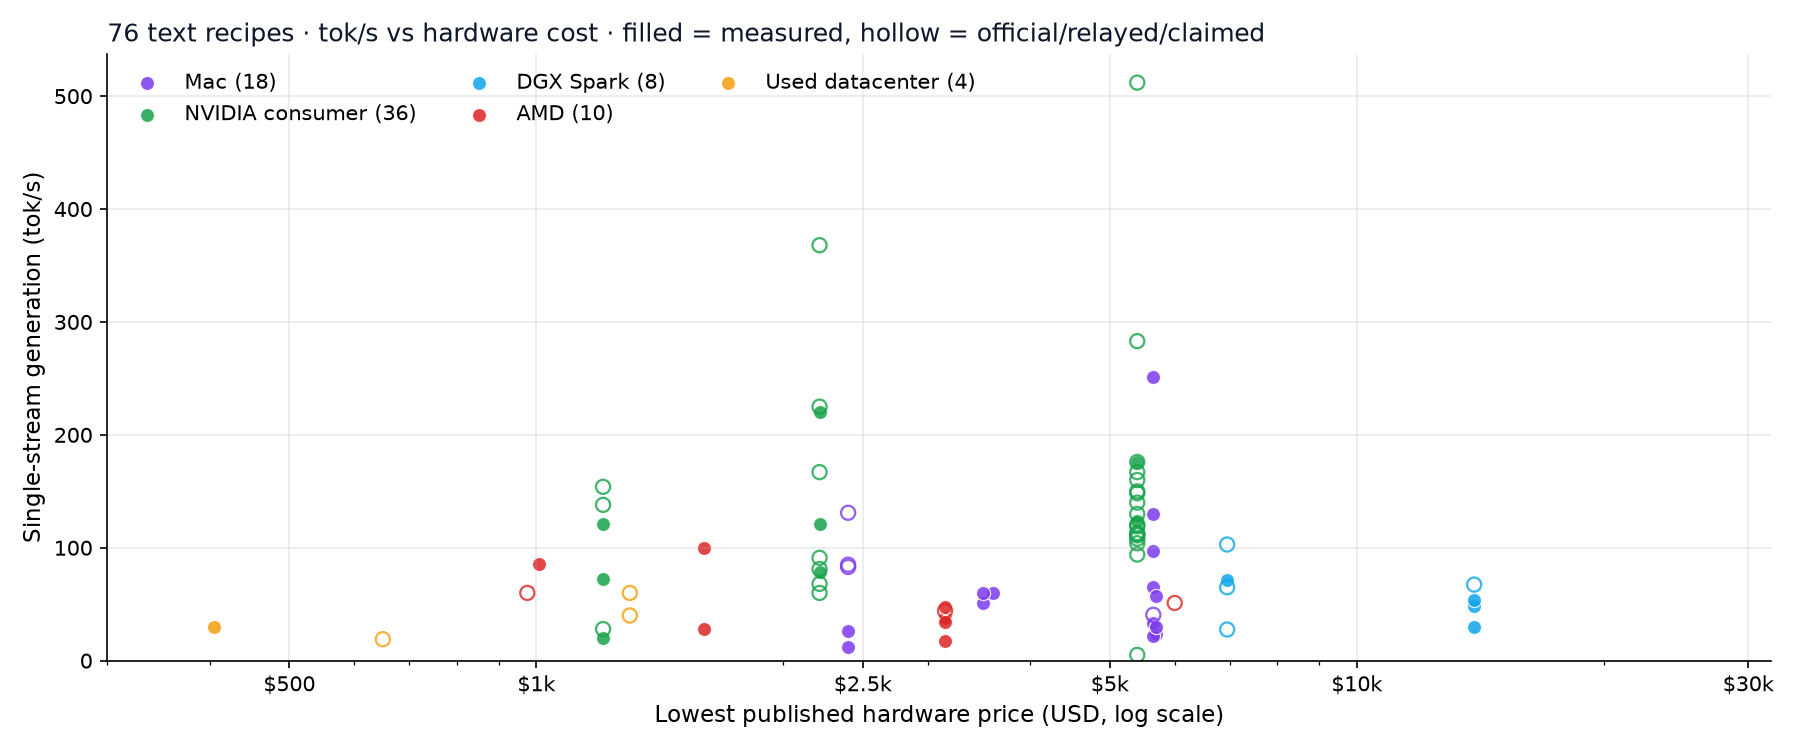
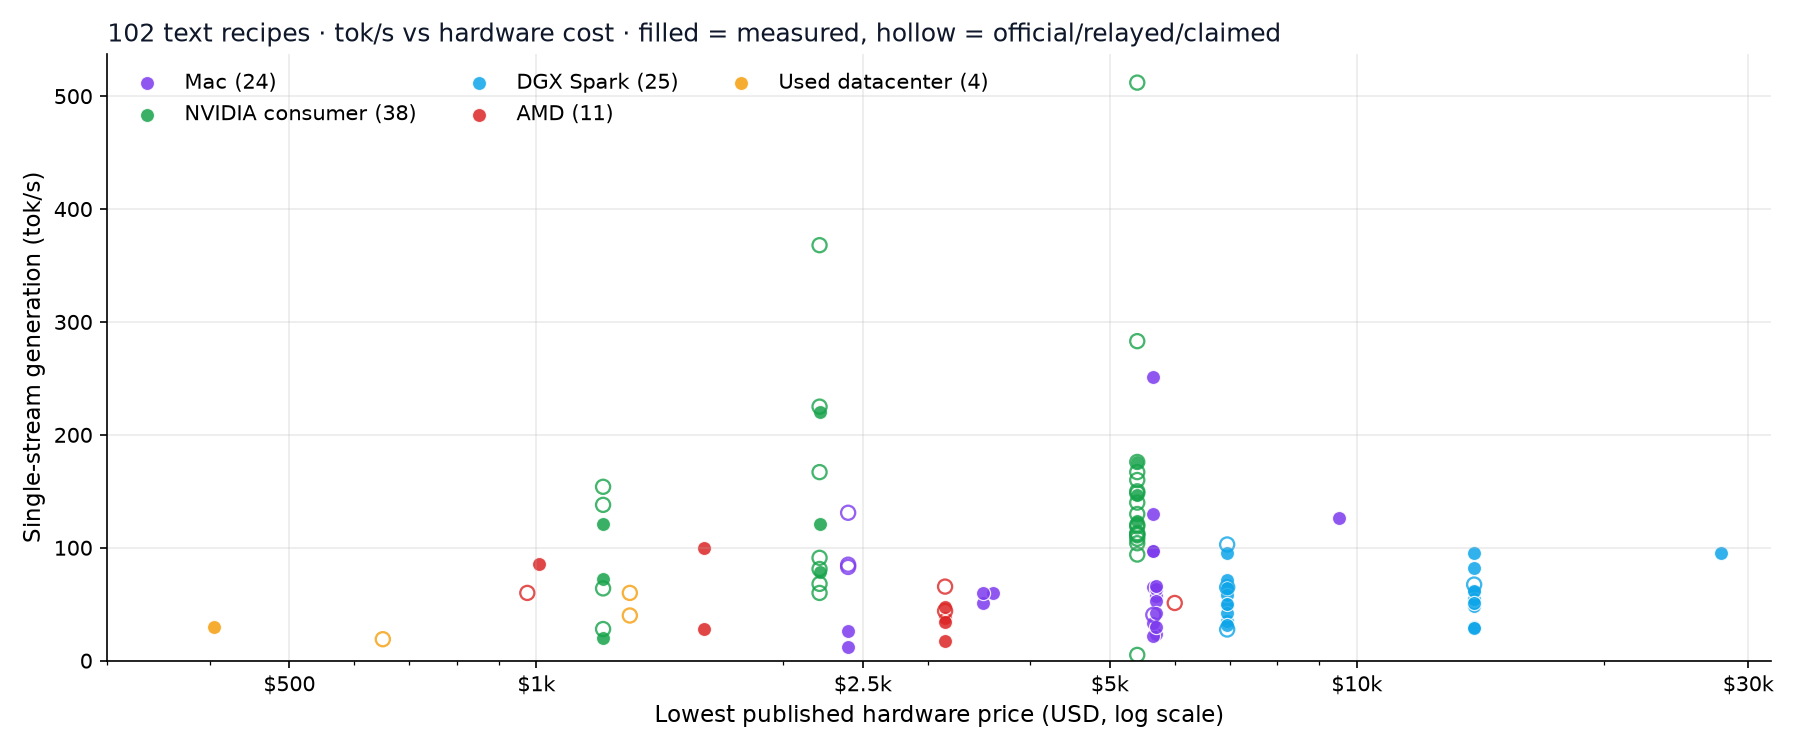
Prices for new recipes (x-017..x-049) from existing repo price basis; regenerate hero + README

diff --git a/README.md b/README.md
@@ -125,7 +125,7 @@ Engine names are normalized (`scripts/normalize_engines.py`); original strings a
 
 ## Tier 1 · up to $2.5k
 
-*Used 3090/4090, MI50/V100 cards, Strix Halo, R9700* · 41 recipes
+*Used 3090/4090, MI50/V100 cards, Strix Halo, R9700* · 42 recipes
 
 
 **📝 Text**
@@ -140,7 +140,7 @@ Engine names are normalized (`scripts/normalize_engines.py`); original strings a
 - **Qwen3.8-27B** · DFlash `EXL3 4.0bpw + DFlash2 3-bit…` — RTX 4090 24GB → **121 tok/s** ✅ [source](https://x.com/yume_arasaki/status/2100595901006008791)
 - **Qwen3.8-Flash-Next** · Strata `Strata · IQ3_S` — RTX 3090 24GB → **120.8 tok/s** ✅ [source](https://x.com/needmorevram/status/2105050786938118599)
 - **Qwen3.8-Flash-Next** · Strata `Q2_0` — AMD Radeon AI PRO R9700 → **100 tok/s** ✅ [source](https://x.com/TechPractice1/status/2105338176055509376) · [guide](recipes/x-009.md)
-- *…and 23 more in the [explorer](https://raytone-lab.github.io/Awesome-local-inference-recipe/explore.html).*
+- *…and 24 more in the [explorer](https://raytone-lab.github.io/Awesome-local-inference-recipe/explore.html).*
 
 **🖼 Image**
 
@@ -158,7 +158,7 @@ Engine names are normalized (`scripts/normalize_engines.py`); original strings a
 
 ## Tier 2 · $2.5k–7k
 
-*One RTX 5090, one DGX Spark, Mac Studio Max* · 75 recipes
+*One RTX 5090, one DGX Spark, Mac Studio Max* · 92 recipes
 
 
 **📝 Text**
@@ -172,8 +172,8 @@ Engine names are normalized (`scripts/normalize_engines.py`); original strings a
 - **Qwen3.8-Flash-Next** · Strata `Strata · IQ3_S` — RTX 5090 → **160 tok/s** 🔁 [source](https://x.com/yume_arasaki/status/2107293459556225446)
 - **Qwen3.8-Flash-Next** · Strata `Strata · IQ3_S` — RTX 5090+ 96GB DDR5-6400 → **150 tok/s** 🔁 [source](https://x.com/kreia/status/2106054715373212025)
 - **Qwen3.8-27B-NVFP4-MTP** · llama.cpp `LOW + MTP` — RTX 5090 32GB → **148.3 tok/s** 🔁 [source](https://huggingface.co/esatapedico/Qwen3.8-27B-NVFP4-MTP-GGUF)
-- **Qwen3.8-Flash-Next-Gyro** · Strata `Gyro-S TQ1_0` — RTX 5090 32GB → **140 tok/s** 📣 [source](https://huggingface.co/agentionai/Qwen3.8-Flash-Next-Gyro-GGUF)
-- *…and 47 more in the [explorer](https://raytone-lab.github.io/Awesome-local-inference-recipe/explore.html).*
+- **Qwen3.8-27B** · vLLM `NVFP4` — RTX 5090 32GB → **147 tok/s** ✅ [source](https://x.com/MiaAI_lab/status/2088734058842878037)
+- *…and 64 more in the [explorer](https://raytone-lab.github.io/Awesome-local-inference-recipe/explore.html).*
 
 **🖼 Image**
 
@@ -201,30 +201,31 @@ Engine names are normalized (`scripts/normalize_engines.py`); original strings a
 
 ## Tier 3 · $7k–14k
 
-*Two Sparks, Mac Studio Ultra* · 15 recipes
+*Two Sparks, Mac Studio Ultra* · 23 recipes
 
 
 **📝 Text**
 
+- **Qwen3.8-Flash-Next 4/8-bit** · mlx-serve `4/8-bit mixed` — Mac Studio M5 Ultra 256GB → **126 tok/s** ✅ [source](https://x.com/LocalSilicon/status/2106175358160793817)
+- **DeepSeek-V4.1-Flash** · TensorFold — 2× DGX Spark → **95 tok/s** ✅ [source](https://x.com/Urthoo/status/2106426248759005362)
+- **DeepSeek-V4-Flash (0731 GA)** `FP8` — 2× DGX Spark → **82 tok/s** ✅ [source](https://x.com/MiaAI_lab/status/2083326111144906836)
 - **Qwen3.8-Flash-Next** · TensorFold `TensorFold · NVFP4 / INT4-A…` — 2× DGX Spark → **67.4 tok/s** 🔁 [source](https://x.com/llm_frontier_jp/status/2108884169069916440)
+- **GLM-5.3-Flash EXL3** `EXL3` — 2× DGX Spark (GB10) → **61.43 tok/s** ✅ [source](https://x.com/JASONMCNAB/status/2106367944963842279)
+- **GLM-5.3-Flash EXL3 4-bit** · TensorFold `EXL3 4-bit` — 2× DGX Spark → **60.4 tok/s** ✅ [source](https://x.com/MiaAI_lab/status/2105598458547646875)
+- **Qwen3.8-Flash-Next** · vLLM `NVFP4` — 2× DGX Spark → **54.4 tok/s** ✅ [source](https://x.com/MiaAI_lab/status/2094338533909475486)
 - **GLM-5.3-Flash** · TensorFold — 2× DGX Spark → **54 tok/s** ✅ [source](https://x.com/easthambuilds/status/2105693180427452703)
+- **Qwen3.8-Flash-Next-hibrid48** · vLLM `NVFP4` — 2× DGX Spark → **51 tok/s** ✅ [source](https://x.com/CryptoBandit100/status/2106374669477761493)
 - **DeepSeek-V4.1-Flash** `Mia EXL3 2.9bpw · DSpark k=3` — 2× DGX Spark → **48.5 tok/s** ✅ [source](https://x.com/yume_arasaki/status/2099966865326170554)
-- **GLM-5.3-Flash** — 2× DGX Spark → **30 tok/s** ✅ [source](https://x.com/realWeZZard/status/2099322375770869891)
-- **Qwen3.8-Flash-Next** · vLLM `vr8vr8 v4.1` — 2× DGX Spark → see source ✅ [source](https://x.com/yume_arasaki/status/2104582876956332408)
-- **Qwen3.8-Flash-Next** · oMLX `fused-kernel oMLX` — Mac Studio M3 Ultra 256GB → see source 🔁 [source](https://x.com/yume_arasaki/status/2108359576966094952)
-- **Qwen3.8-Flash-Next** · oMLX `oMLX / TensorFold` — Mac Studio M5 Ultra 80C 256GB → see source 🔁 [source](https://x.com/yume_arasaki/status/2108359576966094952)
-- **Qwen3.8-27B** · TensorFold `TensorFold 1.0.7` — Mac Studio M3 Ultra → see source 🏛 [source](https://x.com/VRAMCalculator/status/2109344267994808619)
-- **GLM-5.3-Flash** · TensorFold `Mia EXL3 + TensorFold` — 2× DGX Spark → see source ✅ [source](https://x.com/yume_arasaki/status/2106837882870886438)
-- **GLM-5.3-Flash** `@Morrowmake` — 4× CMP 170HX 64GB → see source ✅ [source](https://x.com/seanphan/status/2105673568914898962)
-- *…and 5 more in the [explorer](https://raytone-lab.github.io/Awesome-local-inference-recipe/explore.html).*
+- *…and 13 more in the [explorer](https://raytone-lab.github.io/Awesome-local-inference-recipe/explore.html).*
 
 ## Tier 4 · $14k–30k
 
-*3–4 Spark clusters, multi-GPU workstations* · 8 recipes
+*3–4 Spark clusters, multi-GPU workstations* · 9 recipes
 
 
 **📝 Text**
 
+- **GLM-5.3-Flash EXL3** · TensorFold `EXL3` — 4× DGX Spark → **95 tok/s** ✅ [source](https://x.com/MiaAI_lab/status/2108939694918488183)
 - **Qwen3.8-Flash-Next** · Radiance (fork) `Radiance fork · int4fp8 · B…` — 4× AMD R9700 32GB + TR 9970X + 128GB → see source 🔁 [source](https://x.com/richgel999/status/2109515169638326738)
 - **Qwen3.8-27B** · Radiance (fork) `MXFP4 · Radiance fork` — 4× R9700 → see source 🔁 [source](https://x.com/richgel999/status/2109515169638326738)
 - **GLM-5.3-Flash** `Mia EXL3` — 3× DGX Spark → see source 🔁 [source](https://x.com/yume_arasaki/status/2106837882870886438)
@@ -236,7 +237,7 @@ Engine names are normalized (`scripts/normalize_engines.py`); original strings a
 
 ## Cost Not Published
 
-Multi-card builds priced per card, Macs without a listed price, and other rows without a single published price · 149 recipes. Top text recipes by tok/s:
+Multi-card builds priced per card, Macs without a listed price, and other rows without a single published price · 122 recipes. Top text recipes by tok/s:
 
 - **Qwen3.8-27B** · SGLang `NVFP4` — RTX PRO 6000 → **300 tok/s** ✅ [source](https://x.com/MiaAI_lab/status/2090327658508763516)
 - **Qwen3.6-35B-A3B-Escha-W2** · SGLang `Escha W2` — RTX 5080 16GB → **212 tok/s** 📣 [source](https://huggingface.co/EschaLabs/Qwen3.6-35B-A3B-Escha-W2)
@@ -244,13 +245,13 @@ Multi-card builds priced per card, Macs without a listed price, and other rows w
 - **Qwen3.6-35B-A3B** · oMLX `oMLX 0.7.1.dev1` — Mac M5 Max → **205 tok/s** 🏛 [source](https://x.com/jundotkim/status/2108584837590495246)
 - **Qwen3.8-Flash-Next-MLX-Serve-iQ-MLX-4.7bpw** · mlx-serve `iQ-MLX 4.7 bpw` — Mac Studio M5 Ultra → **157 tok/s** 📣 [source](https://huggingface.co/ddalcu/Qwen3.8-Flash-Next-MLX-Serve-iQ-MLX-4.7bpw)
 - **Qwen3.8-27B** · vLLM `vLLM` — CMP 170HX → **147 tok/s** 🔁 [source](https://x.com/LFrefman/status/2101572845017178243)
-- **Qwen3.8-27B** · vLLM `NVFP4` — RTX 5090 32GB → **147 tok/s** ✅ [source](https://x.com/MiaAI_lab/status/2088734058842878037)
 - **Qwen3.8-27B** · Splash `Splash` — Mac M5 Max → **144 tok/s** 🏛 [source](https://x.com/zhijianliu/status/2101102949158302001)
 - **Qwen3.6-35B-A3B-Escha-W2** · SGLang `Escha W2` — RTX 5060 Ti 16GB → **128 tok/s** 📣 [source](https://huggingface.co/EschaLabs/Qwen3.6-35B-A3B-Escha-W2)
-- **Qwen3.8-Flash-Next 4/8-bit** · mlx-serve `4/8-bit mixed` — Mac Studio M5 Ultra 256GB → **126 tok/s** ✅ [source](https://x.com/LocalSilicon/status/2106175358160793817)
 - **GLM-5.3-Flash** `EXL3+ DS coordinator` — 4× DGX Spark + RTX 5090 → **124 tok/s** ✅ [source](https://x.com/dangerm00se/status/2104876537367728325)
 - **Qwen3.8-Flash-Next** · Strata `IQ3_S` — 2× RTX 3090 (48GB) + 64GB DDR5-6000 → **120 tok/s** ✅ [source](https://x.com/geldeki/status/2109208295957201171) · [guide](recipes/x-004.md)
-- *…browse all 149 in the [explorer](https://raytone-lab.github.io/Awesome-local-inference-recipe/explore.html).*
+- **Qwen3.8-Flash-Next** · Strata `q3 xs` — 2× Tesla V100 32GB PCIe → **120 tok/s** ✅ [source](https://x.com/rewin123/status/2108669905616736529) · [guide](recipes/x-007.md)
+- **Ternary-Bonsai-2-27B-262k** · mirai-s-ada `Ternary Bonsai 2 27B + KV` — RTX 4070 12GB → **102 tok/s** 📣 [source](https://huggingface.co/CaryPalmer/Ternary-Bonsai-2-27B-262k-GGUF)
+- *…browse all 122 in the [explorer](https://raytone-lab.github.io/Awesome-local-inference-recipe/explore.html).*
 
 
 ## Engines & Tools

diff --git a/README.ja.md b/README.ja.md
@@ -125,7 +125,7 @@
 
 ## 第 1 段階 · 2,500 ドルまで
 
-*中古の 3090/4090、MI50/V100、Strix Halo、R9700* · 41 件
+*中古の 3090/4090、MI50/V100、Strix Halo、R9700* · 42 件
 
 
 **📝 テキスト**
@@ -140,7 +140,7 @@
 - **Qwen3.8-27B** · DFlash `EXL3 4.0bpw + DFlash2 3-bit…` — RTX 4090 24GB → **121 tok/s** ✅ [出典](https://x.com/yume_arasaki/status/2100595901006008791)
 - **Qwen3.8-Flash-Next** · Strata `Strata · IQ3_S` — RTX 3090 24GB → **120.8 tok/s** ✅ [出典](https://x.com/needmorevram/status/2105050786938118599)
 - **Qwen3.8-Flash-Next** · Strata `Q2_0` — AMD Radeon AI PRO R9700 → **100 tok/s** ✅ [出典](https://x.com/TechPractice1/status/2105338176055509376) · [手順](recipes/x-009.ja.md)
-- *…ほか 23 件は[エクスプローラー](https://raytone-lab.github.io/Awesome-local-inference-recipe/explore.html)で。*
+- *…ほか 24 件は[エクスプローラー](https://raytone-lab.github.io/Awesome-local-inference-recipe/explore.html)で。*
 
 **🖼 画像**
 
@@ -158,7 +158,7 @@
 
 ## 第 2 段階 · 2,500〜7,000 ドル
 
-*RTX 5090 1 枚、DGX Spark 1 台、Mac Studio Max* · 75 件
+*RTX 5090 1 枚、DGX Spark 1 台、Mac Studio Max* · 92 件
 
 
 **📝 テキスト**
@@ -172,8 +172,8 @@
 - **Qwen3.8-Flash-Next** · Strata `Strata · IQ3_S` — RTX 5090 → **160 tok/s** 🔁 [出典](https://x.com/yume_arasaki/status/2107293459556225446)
 - **Qwen3.8-Flash-Next** · Strata `Strata · IQ3_S` — RTX 5090+ 96GB DDR5-6400 → **150 tok/s** 🔁 [出典](https://x.com/kreia/status/2106054715373212025)
 - **Qwen3.8-27B-NVFP4-MTP** · llama.cpp `LOW + MTP` — RTX 5090 32GB → **148.3 tok/s** 🔁 [出典](https://huggingface.co/esatapedico/Qwen3.8-27B-NVFP4-MTP-GGUF)
-- **Qwen3.8-Flash-Next-Gyro** · Strata `Gyro-S TQ1_0` — RTX 5090 32GB → **140 tok/s** 📣 [出典](https://huggingface.co/agentionai/Qwen3.8-Flash-Next-Gyro-GGUF)
-- *…ほか 47 件は[エクスプローラー](https://raytone-lab.github.io/Awesome-local-inference-recipe/explore.html)で。*
+- **Qwen3.8-27B** · vLLM `NVFP4` — RTX 5090 32GB → **147 tok/s** ✅ [出典](https://x.com/MiaAI_lab/status/2088734058842878037)
+- *…ほか 64 件は[エクスプローラー](https://raytone-lab.github.io/Awesome-local-inference-recipe/explore.html)で。*
 
 **🖼 画像**
 
@@ -201,30 +201,31 @@
 
 ## 第 3 段階 · 7,000〜14,000 ドル
 
-*DGX Spark 2 台、Mac Studio Ultra* · 15 件
+*DGX Spark 2 台、Mac Studio Ultra* · 23 件
 
 
 **📝 テキスト**
 
+- **Qwen3.8-Flash-Next 4/8-bit** · mlx-serve `4/8-bit mixed` — Mac Studio M5 Ultra 256GB → **126 tok/s** ✅ [出典](https://x.com/LocalSilicon/status/2106175358160793817)
+- **DeepSeek-V4.1-Flash** · TensorFold — 2× DGX Spark → **95 tok/s** ✅ [出典](https://x.com/Urthoo/status/2106426248759005362)
+- **DeepSeek-V4-Flash (0731 GA)** `FP8` — 2× DGX Spark → **82 tok/s** ✅ [出典](https://x.com/MiaAI_lab/status/2083326111144906836)
 - **Qwen3.8-Flash-Next** · TensorFold `TensorFold · NVFP4 / INT4-A…` — 2× DGX Spark → **67.4 tok/s** 🔁 [出典](https://x.com/llm_frontier_jp/status/2108884169069916440)
+- **GLM-5.3-Flash EXL3** `EXL3` — 2× DGX Spark (GB10) → **61.43 tok/s** ✅ [出典](https://x.com/JASONMCNAB/status/2106367944963842279)
+- **GLM-5.3-Flash EXL3 4-bit** · TensorFold `EXL3 4-bit` — 2× DGX Spark → **60.4 tok/s** ✅ [出典](https://x.com/MiaAI_lab/status/2105598458547646875)
+- **Qwen3.8-Flash-Next** · vLLM `NVFP4` — 2× DGX Spark → **54.4 tok/s** ✅ [出典](https://x.com/MiaAI_lab/status/2094338533909475486)
 - **GLM-5.3-Flash** · TensorFold — 2× DGX Spark → **54 tok/s** ✅ [出典](https://x.com/easthambuilds/status/2105693180427452703)
+- **Qwen3.8-Flash-Next-hibrid48** · vLLM `NVFP4` — 2× DGX Spark → **51 tok/s** ✅ [出典](https://x.com/CryptoBandit100/status/2106374669477761493)
 - **DeepSeek-V4.1-Flash** `Mia EXL3 2.9bpw · DSpark k=3` — 2× DGX Spark → **48.5 tok/s** ✅ [出典](https://x.com/yume_arasaki/status/2099966865326170554)
-- **GLM-5.3-Flash** — 2× DGX Spark → **30 tok/s** ✅ [出典](https://x.com/realWeZZard/status/2099322375770869891)
-- **Qwen3.8-Flash-Next** · vLLM `vr8vr8 v4.1` — 2× DGX Spark → 出典を参照 ✅ [出典](https://x.com/yume_arasaki/status/2104582876956332408)
-- **Qwen3.8-Flash-Next** · oMLX `fused-kernel oMLX` — Mac Studio M3 Ultra 256GB → 出典を参照 🔁 [出典](https://x.com/yume_arasaki/status/2108359576966094952)
-- **Qwen3.8-Flash-Next** · oMLX `oMLX / TensorFold` — Mac Studio M5 Ultra 80C 256GB → 出典を参照 🔁 [出典](https://x.com/yume_arasaki/status/2108359576966094952)
-- **Qwen3.8-27B** · TensorFold `TensorFold 1.0.7` — Mac Studio M3 Ultra → 出典を参照 🏛 [出典](https://x.com/VRAMCalculator/status/2109344267994808619)
-- **GLM-5.3-Flash** · TensorFold `Mia EXL3 + TensorFold` — 2× DGX Spark → 出典を参照 ✅ [出典](https://x.com/yume_arasaki/status/2106837882870886438)
-- **GLM-5.3-Flash** `@Morrowmake` — 4× CMP 170HX 64GB → 出典を参照 ✅ [出典](https://x.com/seanphan/status/2105673568914898962)
-- *…ほか 5 件は[エクスプローラー](https://raytone-lab.github.io/Awesome-local-inference-recipe/explore.html)で。*
+- *…ほか 13 件は[エクスプローラー](https://raytone-lab.github.io/Awesome-local-inference-recipe/explore.html)で。*
 
 ## 第 4 段階 · 14,000〜30,000 ドル
 
-*Spark 3〜4 台のクラスター、マルチ GPU ワークステーション* · 8 件
+*Spark 3〜4 台のクラスター、マルチ GPU ワークステーション* · 9 件
 
 
 **📝 テキスト**
 
+- **GLM-5.3-Flash EXL3** · TensorFold `EXL3` — 4× DGX Spark → **95 tok/s** ✅ [出典](https://x.com/MiaAI_lab/status/2108939694918488183)
 - **Qwen3.8-Flash-Next** · Radiance (fork) `Radiance fork · int4fp8 · B…` — 4× AMD R9700 32GB + TR 9970X + 128GB → 出典を参照 🔁 [出典](https://x.com/richgel999/status/2109515169638326738)
 - **Qwen3.8-27B** · Radiance (fork) `MXFP4 · Radiance fork` — 4× R9700 → 出典を参照 🔁 [出典](https://x.com/richgel999/status/2109515169638326738)
 - **GLM-5.3-Flash** `Mia EXL3` — 3× DGX Spark → 出典を参照 🔁 [出典](https://x.com/yume_arasaki/status/2106837882870886438)
@@ -236,7 +237,7 @@
 
 ## 価格非公開
 
-1 枚単位で価格が出ているマルチ GPU 構成、価格の記載がない Mac など、単一の公開価格がないレシピ · 149 件。tok/s 上位のテキストレシピ：
+1 枚単位で価格が出ているマルチ GPU 構成、価格の記載がない Mac など、単一の公開価格がないレシピ · 122 件。tok/s 上位のテキストレシピ：
 
 - **Qwen3.8-27B** · SGLang `NVFP4` — RTX PRO 6000 → **300 tok/s** ✅ [出典](https://x.com/MiaAI_lab/status/2090327658508763516)
 - **Qwen3.6-35B-A3B-Escha-W2** · SGLang `Escha W2` — RTX 5080 16GB → **212 tok/s** 📣 [出典](https://huggingface.co/EschaLabs/Qwen3.6-35B-A3B-Escha-W2)
@@ -244,13 +245,13 @@
 - **Qwen3.6-35B-A3B** · oMLX `oMLX 0.7.1.dev1` — Mac M5 Max → **205 tok/s** 🏛 [出典](https://x.com/jundotkim/status/2108584837590495246)
 - **Qwen3.8-Flash-Next-MLX-Serve-iQ-MLX-4.7bpw** · mlx-serve `iQ-MLX 4.7 bpw` — Mac Studio M5 Ultra → **157 tok/s** 📣 [出典](https://huggingface.co/ddalcu/Qwen3.8-Flash-Next-MLX-Serve-iQ-MLX-4.7bpw)
 - **Qwen3.8-27B** · vLLM `vLLM` — CMP 170HX → **147 tok/s** 🔁 [出典](https://x.com/LFrefman/status/2101572845017178243)
-- **Qwen3.8-27B** · vLLM `NVFP4` — RTX 5090 32GB → **147 tok/s** ✅ [出典](https://x.com/MiaAI_lab/status/2088734058842878037)
 - **Qwen3.8-27B** · Splash `Splash` — Mac M5 Max → **144 tok/s** 🏛 [出典](https://x.com/zhijianliu/status/2101102949158302001)
 - **Qwen3.6-35B-A3B-Escha-W2** · SGLang `Escha W2` — RTX 5060 Ti 16GB → **128 tok/s** 📣 [出典](https://huggingface.co/EschaLabs/Qwen3.6-35B-A3B-Escha-W2)
-- **Qwen3.8-Flash-Next 4/8-bit** · mlx-serve `4/8-bit mixed` — Mac Studio M5 Ultra 256GB → **126 tok/s** ✅ [出典](https://x.com/LocalSilicon/status/2106175358160793817)
 - **GLM-5.3-Flash** `EXL3+ DS coordinator` — 4× DGX Spark + RTX 5090 → **124 tok/s** ✅ [出典](https://x.com/dangerm00se/status/2104876537367728325)
 - **Qwen3.8-Flash-Next** · Strata `IQ3_S` — 2× RTX 3090 (48GB) + 64GB DDR5-6000 → **120 tok/s** ✅ [出典](https://x.com/geldeki/status/2109208295957201171) · [手順](recipes/x-004.ja.md)
-- *…全 149 件は[エクスプローラー](https://raytone-lab.github.io/Awesome-local-inference-recipe/explore.html)で見られます。*
+- **Qwen3.8-Flash-Next** · Strata `q3 xs` — 2× Tesla V100 32GB PCIe → **120 tok/s** ✅ [出典](https://x.com/rewin123/status/2108669905616736529) · [手順](recipes/x-007.ja.md)
+- **Ternary-Bonsai-2-27B-262k** · mirai-s-ada `Ternary Bonsai 2 27B + KV` — RTX 4070 12GB → **102 tok/s** 📣 [出典](https://huggingface.co/CaryPalmer/Ternary-Bonsai-2-27B-262k-GGUF)
+- *…全 122 件は[エクスプローラー](https://raytone-lab.github.io/Awesome-local-inference-recipe/explore.html)で見られます。*
 
 
 ## エンジンとツール
